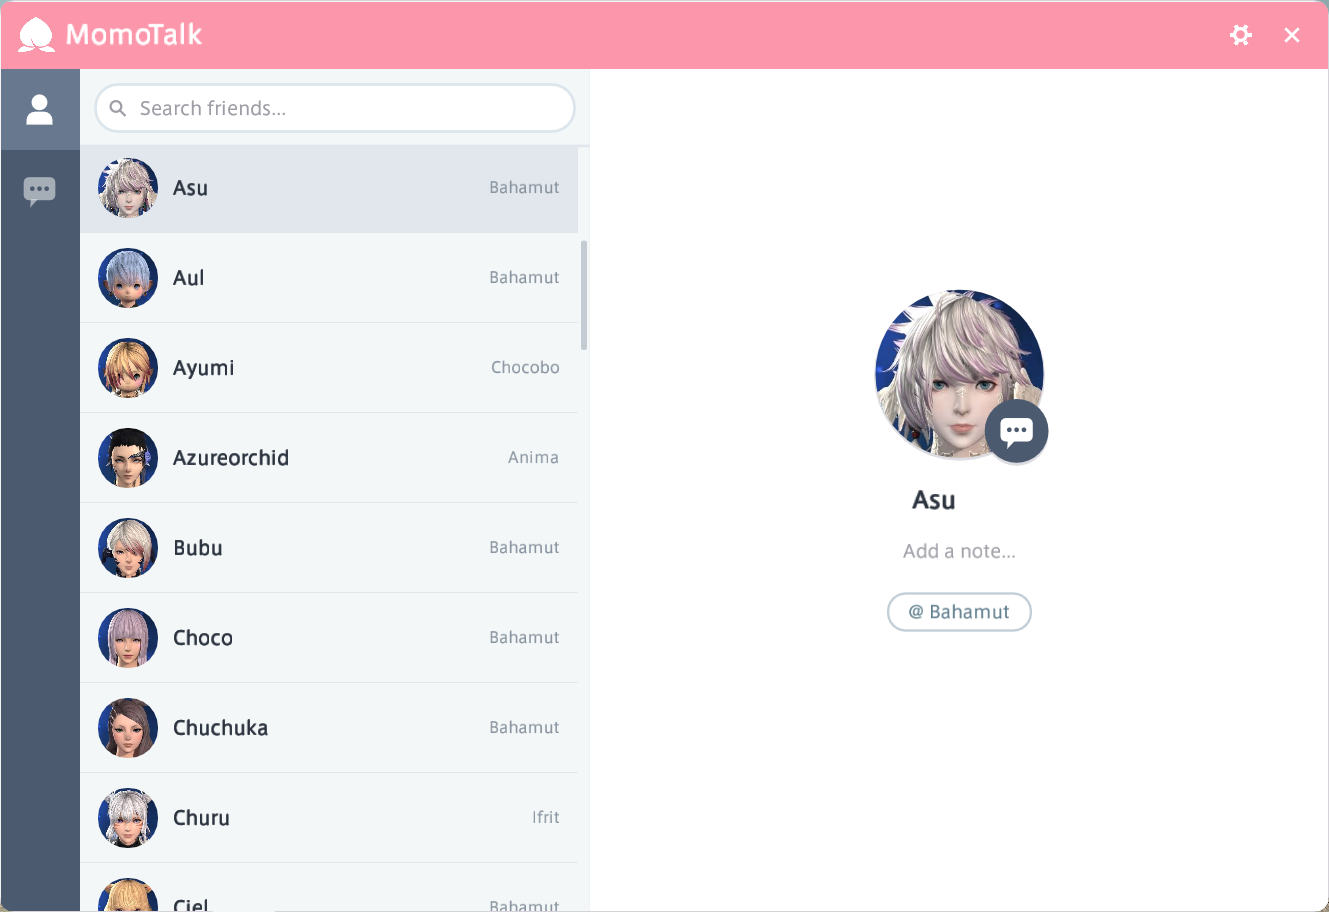
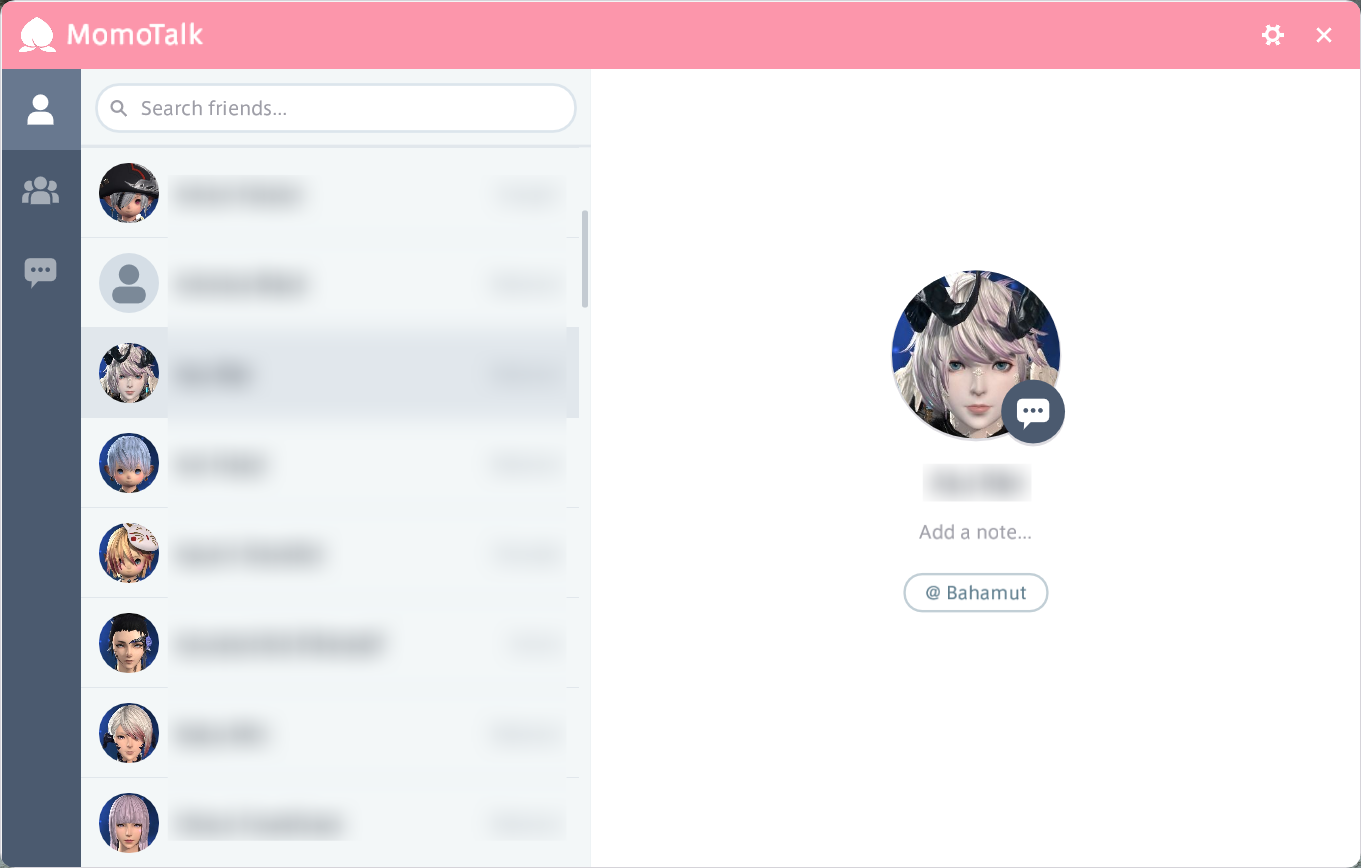
docs: update readme & intros

diff --git a/README.md b/README.md
@@ -1,19 +1,26 @@
-# FFXIV MomoTalk
-
 **English** | [简体中文](README.zh.md)
-
-It all came back to me... I'm actually a Sensei who teaches and mentors students in Kivotos, and by some strange twist of fate, I was transported to the continent of Eorzea. Here, those chosen by the god (Hydaelyn) are granted the Blessing of Light to channel the power of aether. Taking on the role of a mysterious figure known as the "Warrior of Light", I travel freely, meeting companions of all personalities and unique abilities, and together we defeat formidable foes and save the fractured world.
-
-Ahem—this is a Dalamud plugin that brings **Blue Archive**'s **MomoTalk** chat interface into **FINAL FANTASY XIV**, letting you send private messages (`/tell`) to your friends in-game **the adult way**.
-
-## Features
 
 ![MomoTalk](./docs/preview.png)
 
-- **Faithful UI Style**: Feels just like office.
+# FFXIV MomoTalk
+
+> [!IMPORTANT]
+> Plugin only support **global** client now.
+
+It all came back to me... I'm actually a Sensei who teaches and mentors students in Kivotos, and by some strange twist of fate, I was transported to the continent of Eorzea. Here, those chosen by the god (Hydaelyn) are granted the Blessing of Light to channel the power of aether. Taking on the role of a mysterious figure known as the "Warrior of Light", I travel freely, meeting companions of all personalities and unique abilities, and together we defeat formidable foes and save the fractured world.
+
+Ahem—this is a Dalamud plugin that brings **Blue Archive**'s **MomoTalk** chat interface into **FINAL FANTASY XIV**, letting you send messages to your friends and groups in-game **the adult way**.
+
+## Features
+
+![AI Reply](./docs/ai-reply-preview.png)
+
+- **Faithful UI Style**: Feels just like being back in Sensei's office.
+- **AI Reply Suggestions**: Just as you've always done.
 - **Global Floating Launcher**: A draggable MomoTalk entry button.
-- **Friend `/tell` Messaging**: Send and receive real in-game private messages with friends.
-- **Persistent Chat History**: Never lose track of conversations with your friends.
+- **In-Game Messaging**: Supports friend `/tell`, Free Company, Linkshell, and Cross-world Linkshell.
+- **Static Group Chat**: Send and receive via Party chat; the current party members must match the saved roster.
+- **Persistent Chat History**: Never lose track of any conversation.
 
 ## Installation
 
@@ -27,14 +34,29 @@ Then open `/xlplugins`, search for **MomoTalk**, and install it.
 
 ## Usage
 
-1. Type `/momotalk` in the in-game chat box, or click the floating MomoTalk icon on screen to toggle the window.
-2. Open **Social** → **Friend List** to load your friends' data.
+### Basic Usage
+
+1. Type `/momotalk` in the in-game chat box, or click the floating MomoTalk icon to open the window.
+2. Open **Social** → **Friend List** in-game to refresh your friend list.
 3. Start Talking!
+
+Similarly, opening the Linkshells window or Free Company window will automatically read and create group chats.
+
+### Creating a Static Group
+
+To save a static roster, right-click a member in the in-game Party List and select **Create Static Group**.
+
+### Enabling AI Reply Suggestions
+
+1. Fill in **Endpoint**, **API Key**, and **Model** under **AI Reply** in the plugin settings.
+2. Click the sparkle button in the chat bar to send recent messages and the current conversation notes to the endpoint to generate suggestions. Click a suggestion to send it.
+
+For security reasons, remote endpoints must use HTTPS; HTTP is only allowed for loopback addresses such as `localhost`.
 
 ## Requirements & Build
 
-- FINAL FANTASY XIV (International) with **Dalamud API 15**
-- **.NET 10 SDK** (Windows x64)
+- FINAL FANTASY XIV (global) with **Dalamud API 15**
+- **.NET 10 SDK** and Dalamud development assemblies (Windows x64)
 
 ```powershell
 dotnet restore .\FFXIVMomoTalk.slnx --locked-mode
@@ -45,3 +67,4 @@ dotnet build .\FFXIVMomoTalk.slnx -c Release
 
 - Visual design, color palette, layout, and UI interaction references are adapted from **[U1805/momotalk](https://github.com/U1805/momotalk)**.
 - **MomoTalk** is inspired by the in-game messenger from **Blue Archive** (Nexon Games / Yostar).
+- All image copyrights belong to **Blue Archive** (Nexon Games / Yostar).

diff --git a/README.zh.md b/README.zh.md
@@ -1,19 +1,26 @@
-# FFXIV MomoTalk
-
 [English](README.md) | **简体中文**
-
-我想起来了……其实我是在基沃托斯教书育人的人民 Sensei，因为一场意外才穿越到了艾欧泽亚大陆。在这里，被神（海德林）选中的人将被授予“光之加护”，导引以太之力。我扮演着一位名为“光之战士”的神秘角色，在自由的旅行中邂逅性格各异、能力独特的同伴们，和他们一起击败强敌，拯救破碎的世界。
-
-咳咳，这是一款 Dalamud 插件，旨在将《蔚蓝档案》的 **MomoTalk** 聊天界面带入《最终幻想 XIV》，让你在游戏内用**大人的方式**与好友发送私聊消息（`/tell`）。
-
-## 主要功能
 
 ![MomoTalk](./docs/preview.png)
 
+# FFXIV MomoTalk
+
+> [!IMPORTANT]
+> 插件目前仅支持**国际服**客户端。
+
+我想起来了……其实我是在基沃托斯教书育人的人民 Sensei，因为一场意外才穿越到了艾欧泽亚大陆。在这里，被神（海德林）选中的人将被授予“光之加护”，导引以太之力。我扮演着一位名为“光之战士”的神秘角色，在自由的旅行中邂逅性格各异、能力独特的同伴们，和他们一起击败强敌，拯救破碎的世界。
+
+咳咳，这是一款 Dalamud 插件，旨在将《蔚蓝档案》的 **MomoTalk** 聊天界面带入《最终幻想 XIV》，让你在游戏内用**大人的方式**与好友和群组发送消息。
+
+## 主要功能
+
+![AI Reply](./docs/ai-reply-preview.png)
+
 - **还原界面风格**：像回到为师的办公室一样亲切。
+- **AI 回复建议**：正如一直以来你做过的那样。
 - **全局悬浮入口**：可拖动的 MomoTalk 入口。
-- **好友私聊收发**：支持发送与接收真实好友私聊。
-- **记忆消息历史**：不再丢失与好友的互动。
+- **游戏内聊天**：支持好友私聊、部队、本服通信贝和跨服通信贝。
+- **固定队聊天**：通过小队频道收发，当前小队成员须与已保存名单一致。
+- **记忆消息历史**：不再丢失任何记录。
 
 ## 安装方法
 
@@ -23,18 +30,33 @@
 https://raw.githubusercontent.com/LolipopJ/ffxiv-momotalk/main/pluginmaster.json
 ```
 
-保存后打开 `/xlplugins`，搜索 **MomoTalk** 安装即可。
+打开 `/xlplugins`，搜索并安装 **MomoTalk**。
 
 ## 使用方法
 
-1. 在游戏聊天框输入 `/momotalk`，或直接点击画面上的 MomoTalk 悬浮图标开关窗口。
-2. 打开“社交”-“好友名单”，获取好友数据。
+### 基本用法
+
+1. 输入 `/momotalk` 或点击悬浮图标打开 MomoTalk。
+2. 在游戏内打开 **社交** → **好友名单**，刷新好友列表。
 3. 开始 Talk 吧！
+
+相似的，打开通讯贝页面和 FC 页面，将自动读取并创建群组聊天。
+
+### 创建固定队群组
+
+想保存固定队名单，在游戏小队列表中右键点击一位成员，选择 **Create Static Group**。
+
+### 启用 AI 回复建议
+
+1. 在插件设置的 **AI Reply** 中填写 **Endpoint**、**API Key** 和 **Model**。
+2. 点击聊天栏的星光按钮，将近期聊天和当前会话备注发送到该接口以生成建议。点击建议即可发送。
+
+为了安全性考量，远程接口需使用 HTTPS，`localhost` 等回环地址可用 HTTP。
 
 ## 环境与构建
 
 - 《最终幻想 XIV》国际服与 **Dalamud API 15**
-- **.NET 10 SDK**（Windows x64）
+- **.NET 10 SDK** 和 Dalamud 开发程序集，用于构建 Windows x64 版本
 
 ```powershell
 dotnet restore .\FFXIVMomoTalk.slnx --locked-mode
@@ -43,5 +65,6 @@ dotnet build .\FFXIVMomoTalk.slnx -c Release
 
 ## 致谢与引用说明
 
-- 本插件的界面风格、配色体系、组件排布与交互动效参考并借用了开源项目 **[U1805/momotalk](https://github.com/U1805/momotalk)**。
+- 界面设计、配色、布局和交互参考开源项目 **[U1805/momotalk](https://github.com/U1805/momotalk)**。
 - **MomoTalk** 概念源自游戏《**蔚蓝档案（Blue Archive）**》（Nexon Games / Yostar）。
+- 一切图片版权归《**蔚蓝档案（Blue Archive）**》（Nexon Games / Yostar）所有。

diff --git a/CHANGELOG.md b/CHANGELOG.md
@@ -4,6 +4,8 @@ This file records notable changes to FFXIV MomoTalk. The format follows [Keep a 
 
 ## [Unreleased]
 
+## [v1.0.0.0] - 2026-11-24
+
 ### Added
 - Group consecutive messages from the same sender within 500 ms into a single timeline bubble.
 - OpenAI-compatible AI reply suggestions via a conditional sparkle button in the chat send bar, generating 1–3 single-line replies from timestamped recent conversation context (defaulting to the last 10 minutes, up to 100 messages, minimum 5) and notes into an in-timeline MomoTalk-styled `Reply` card with click-to-send and automatic dismissal when sending manually.
@@ -58,6 +60,7 @@ This file records notable changes to FFXIV MomoTalk. The format follows [Keep a 
 - Attached native in-game outgoing Tell rejection errors to matching message bubbles or conversation banners.
 - Hidden the floating entry button while logged out or on the title/character select screens.
 
-[unreleased]: https://github.com/LolipopJ/ffxiv-momotalk/compare/v0.2.0.0...main
+[unreleased]: https://github.com/LolipopJ/ffxiv-momotalk/compare/v1.0.0.0...main
+[v1.0.0.0]: https://github.com/LolipopJ/ffxiv-momotalk/compare/v0.2.0.0...v1.0.0.0
 [v0.2.0.0]: https://github.com/LolipopJ/ffxiv-momotalk/compare/v0.1.0.0...v0.2.0.0
 [v0.1.0.0]: https://github.com/LolipopJ/ffxiv-momotalk/commits/v0.1.0.0
